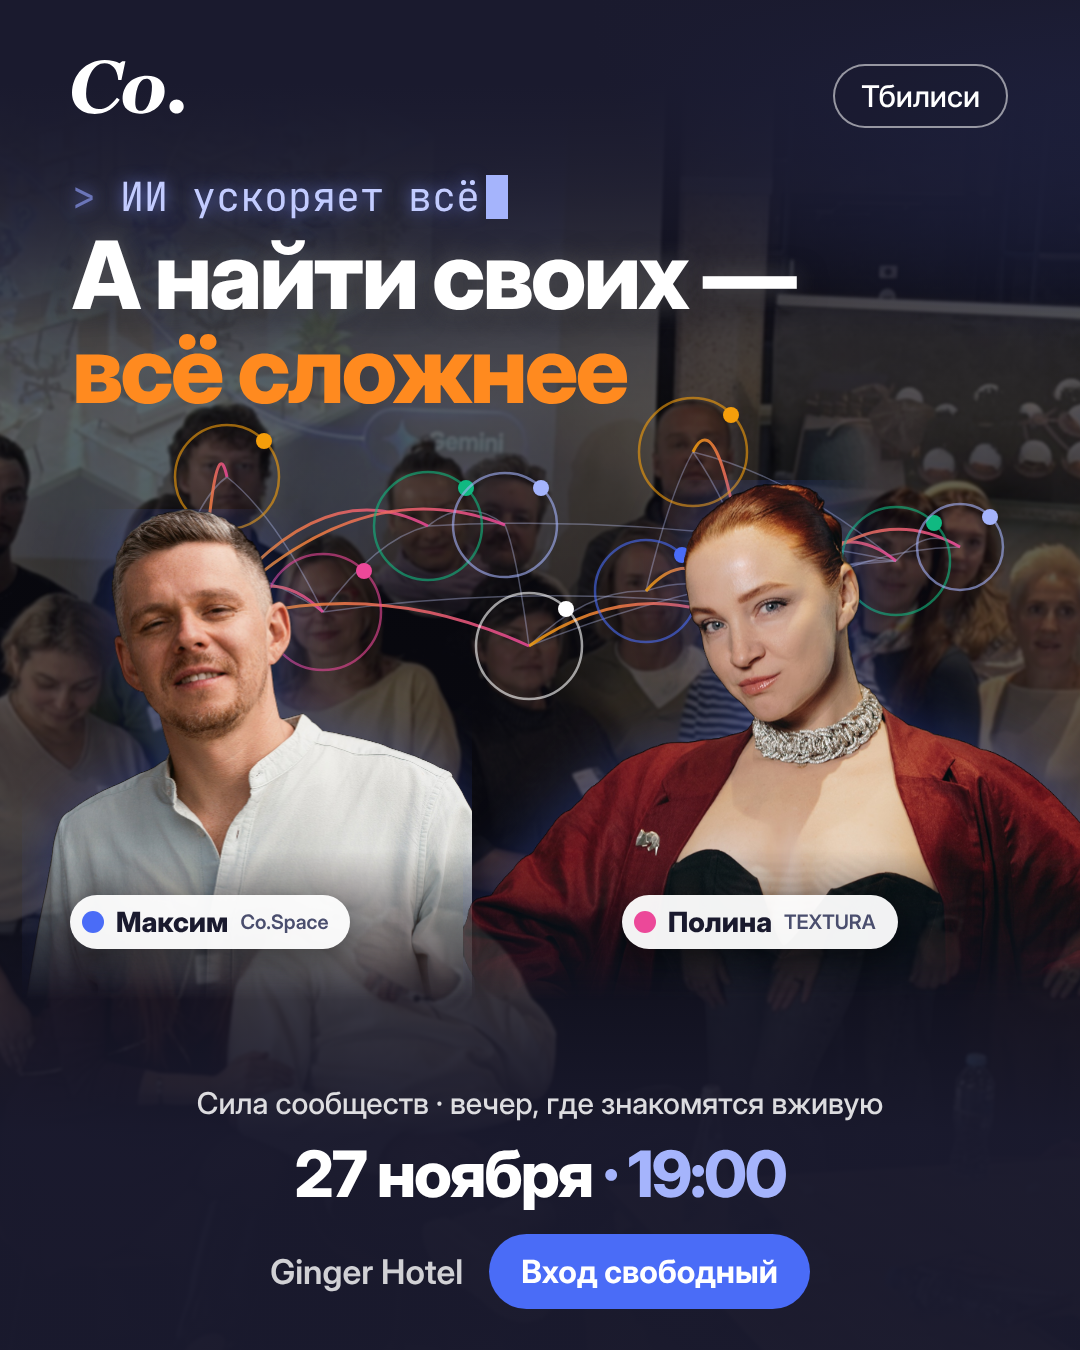
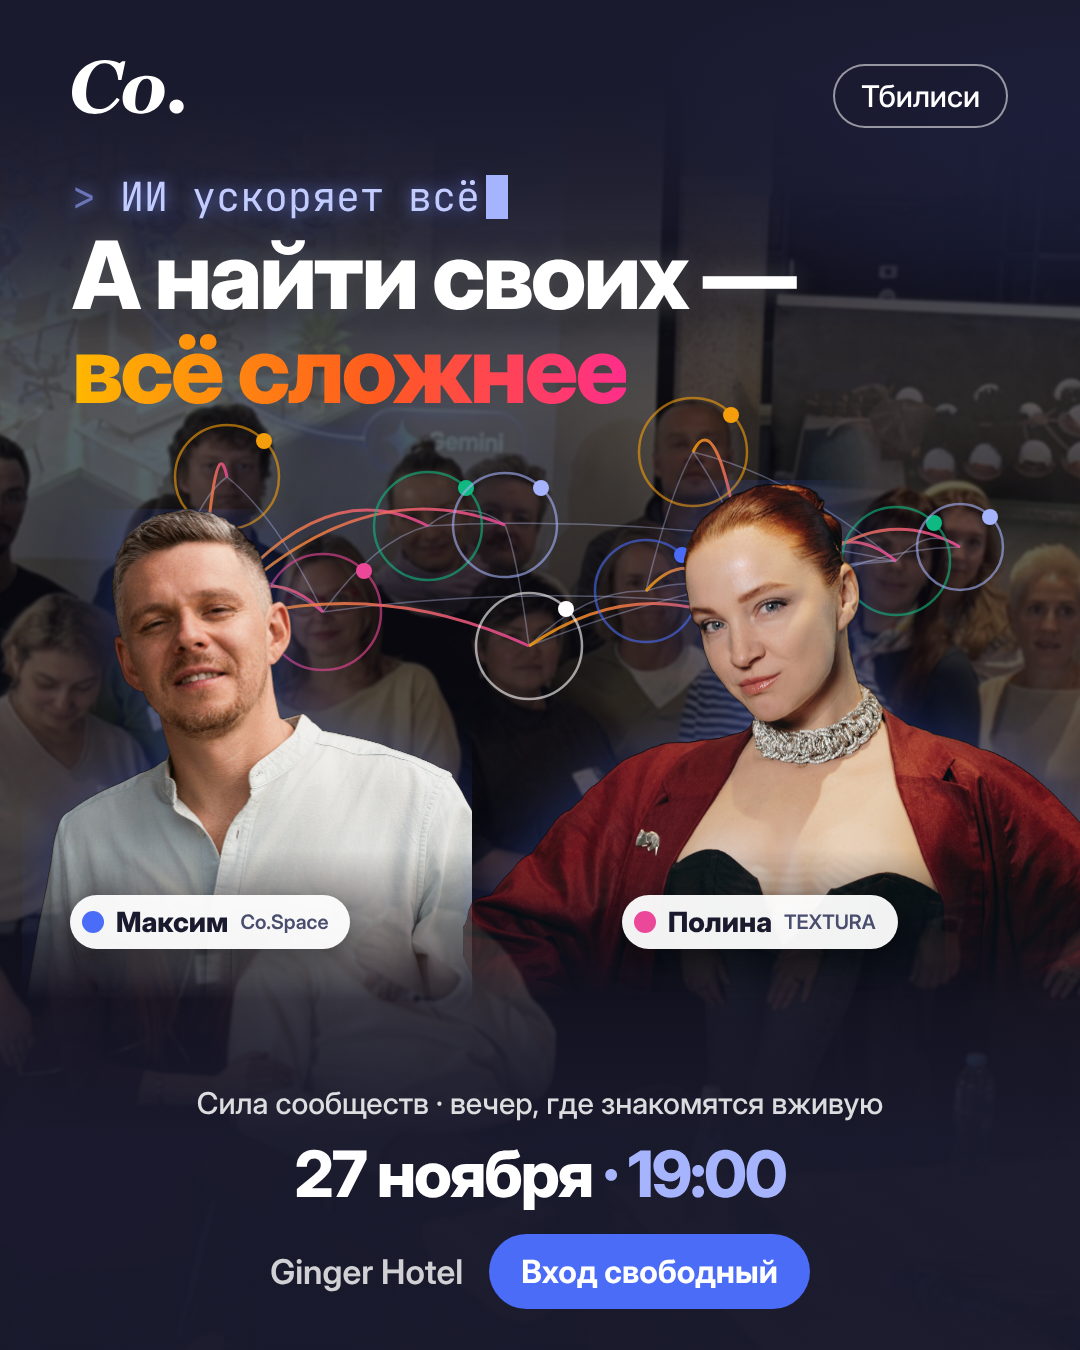
Заголовок: чистый яркий градиент

Changed region(s): [[0.275, 0.2489, 0.5806, 0.3111], [0.0611, 0.2489, 0.1528, 0.3111]]

diff --git a/creatives/src/poster/poster3-4x5.html b/creatives/src/poster/poster3-4x5.html
@@ -16,7 +16,7 @@ svg.net{position:absolute;left:0;top:0}
 .mono s{text-decoration:none;color:#6B75B8}
 .mono b{display:inline-block;width:22px;height:44px;background:#A5B4FC;vertical-align:-8px;margin-left:6px}
 h1{position:absolute;left:72px;right:60px;top:228px;font-size:94px;line-height:1;font-weight:800;letter-spacing:-3px;color:#fff;text-shadow:0 0 24px rgba(255,255,255,.25),0 4px 30px rgba(0,0,0,.7)}
-h1 em{font-style:normal;color:#FF8A1F;text-shadow:none}
+h1 em{font-style:normal;text-shadow:none;background:linear-gradient(90deg,#FFB800 0%,#FF5A1F 55%,#FF2E8A 100%);-webkit-background-clip:text;color:transparent}
 .name{position:absolute;display:flex;align-items:center;gap:12px;background:rgba(255,255,255,.95);color:#1A1A2E;border-radius:40px;
  padding:10px 22px 10px 12px;font-size:28px;font-weight:800;box-shadow:0 10px 30px rgba(0,0,0,.4)}
 .name i{width:22px;height:22px;border-radius:50%;display:block}

diff --git a/creatives/src/poster/poster3-9x16.html b/creatives/src/poster/poster3-9x16.html
@@ -16,7 +16,7 @@ svg.net{position:absolute;left:0;top:0}
 .mono s{text-decoration:none;color:#6B75B8}
 .mono b{display:inline-block;width:22px;height:44px;background:#A5B4FC;vertical-align:-8px;margin-left:6px}
 h1{position:absolute;left:72px;right:60px;top:455px;font-size:96px;line-height:1;font-weight:800;letter-spacing:-3px;color:#fff;text-shadow:0 0 24px rgba(255,255,255,.25),0 4px 30px rgba(0,0,0,.7)}
-h1 em{font-style:normal;color:#FF8A1F;text-shadow:none}
+h1 em{font-style:normal;text-shadow:none;background:linear-gradient(90deg,#FFB800 0%,#FF5A1F 55%,#FF2E8A 100%);-webkit-background-clip:text;color:transparent}
 .name{position:absolute;display:flex;align-items:center;gap:12px;background:rgba(255,255,255,.95);color:#1A1A2E;border-radius:40px;
  padding:10px 22px 10px 12px;font-size:28px;font-weight:800;box-shadow:0 10px 30px rgba(0,0,0,.4)}
 .name i{width:22px;height:22px;border-radius:50%;display:block}

diff --git a/creatives/src/poster/build_poster3.py b/creatives/src/poster/build_poster3.py
@@ -39,7 +39,7 @@ svg.net{position:absolute;left:0;top:0}
 .mono s{text-decoration:none;color:#6B75B8}
 .mono b{display:inline-block;width:22px;height:44px;background:#A5B4FC;vertical-align:-8px;margin-left:6px}
 h1{position:absolute;left:72px;right:60px;top:%(h1)dpx;font-size:%(h1s)dpx;line-height:1;font-weight:800;letter-spacing:-3px;color:#fff;text-shadow:0 0 24px rgba(255,255,255,.25),0 4px 30px rgba(0,0,0,.7)}
-h1 em{font-style:normal;color:#FF8A1F;text-shadow:none}
+h1 em{font-style:normal;text-shadow:none;background:linear-gradient(90deg,#FFB800 0%%,#FF5A1F 55%%,#FF2E8A 100%%);-webkit-background-clip:text;color:transparent}
 .name{position:absolute;display:flex;align-items:center;gap:12px;background:rgba(255,255,255,.95);color:#1A1A2E;border-radius:40px;
  padding:10px 22px 10px 12px;font-size:28px;font-weight:800;box-shadow:0 10px 30px rgba(0,0,0,.4)}
 .name i{width:22px;height:22px;border-radius:50%%;display:block}
